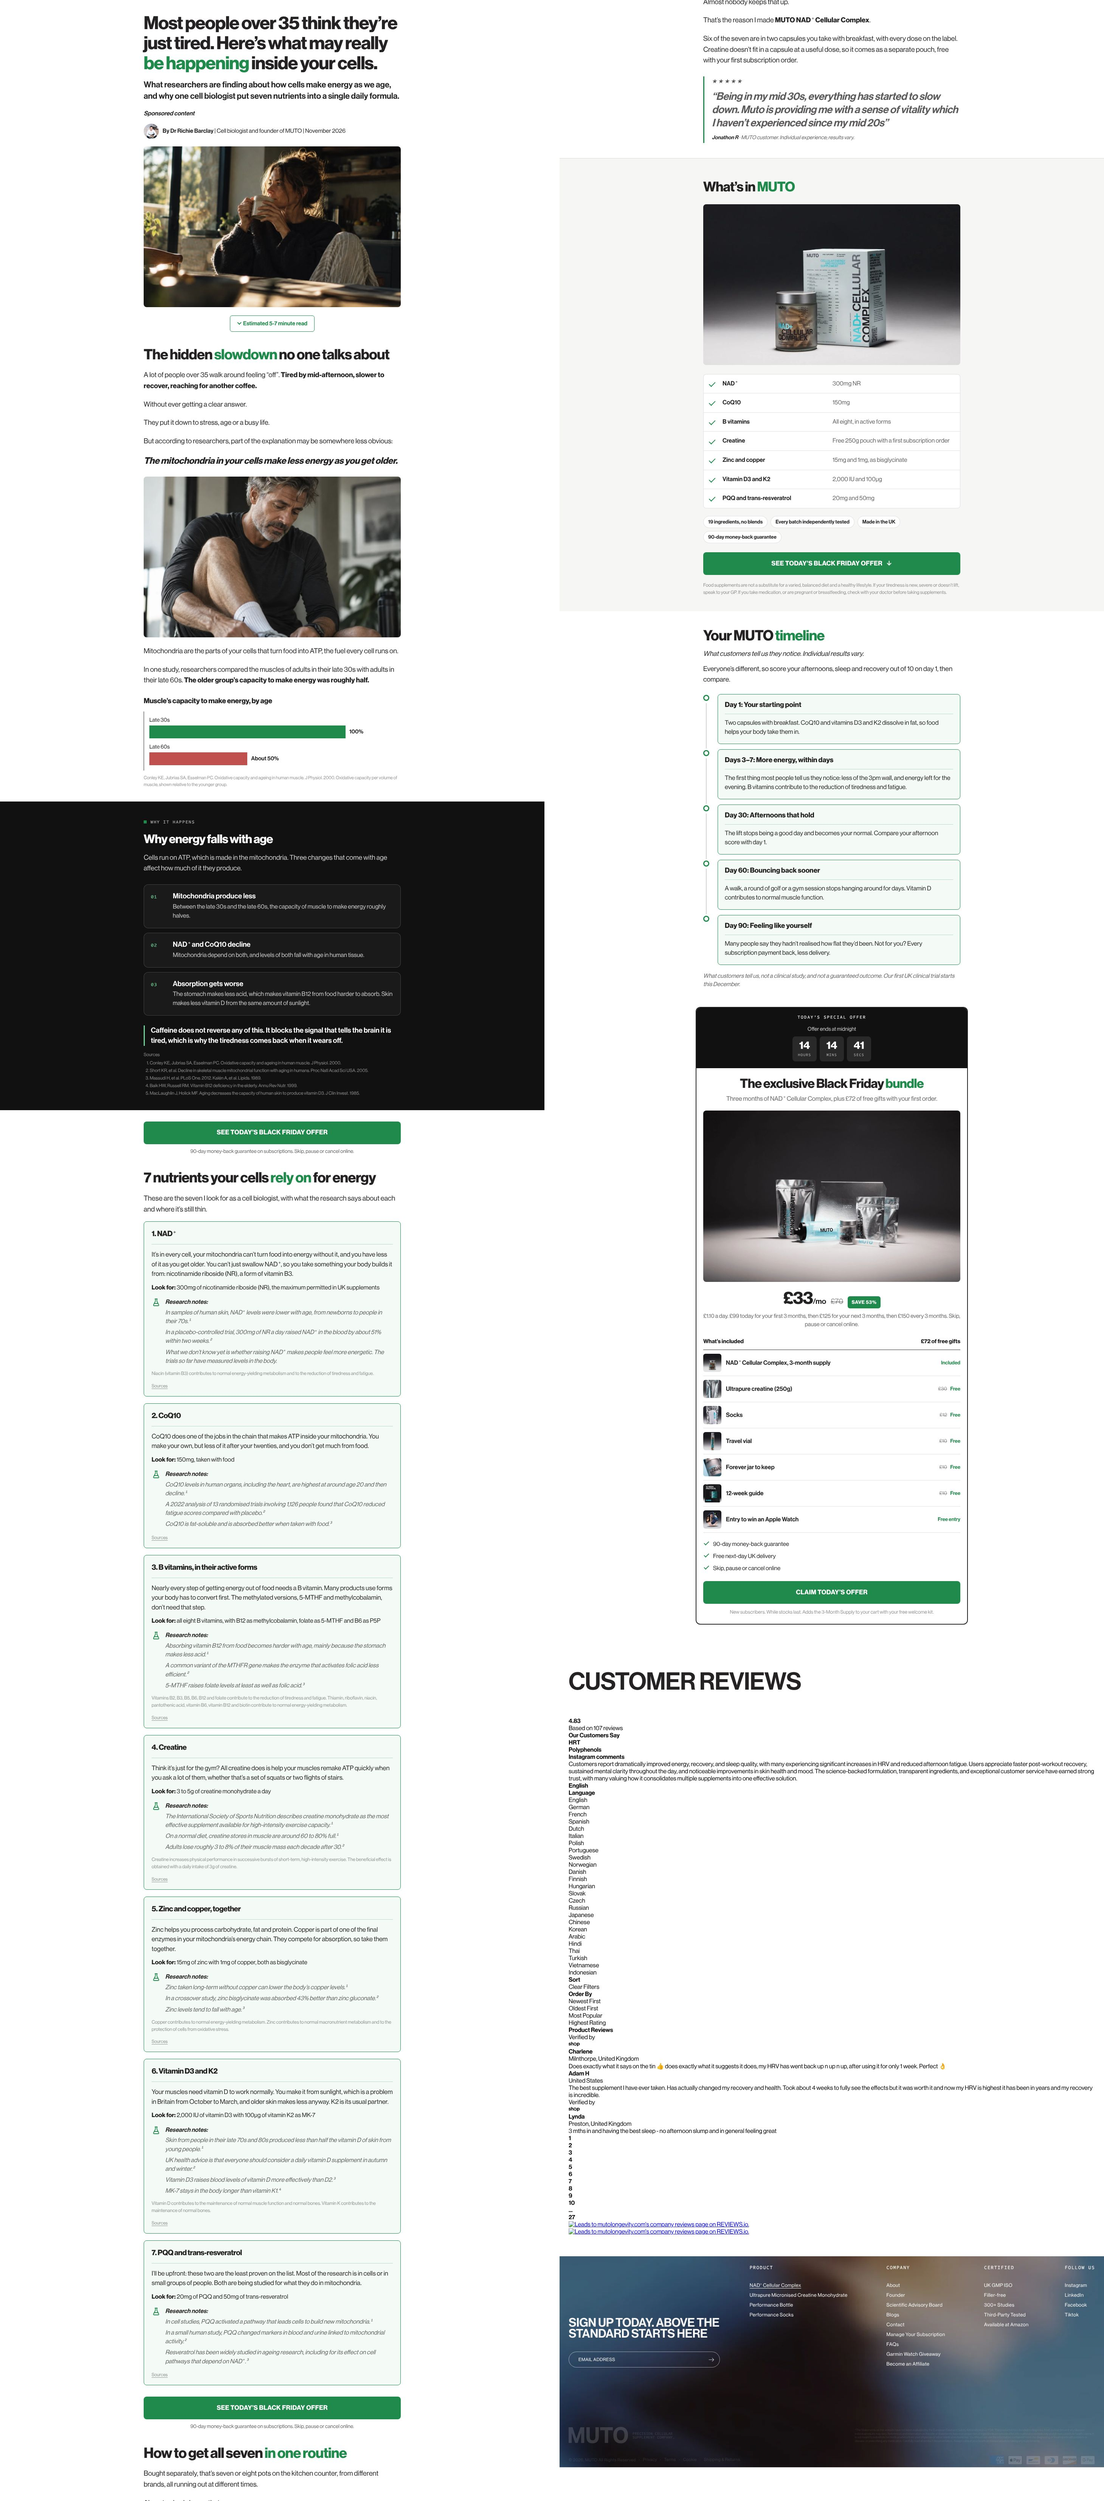
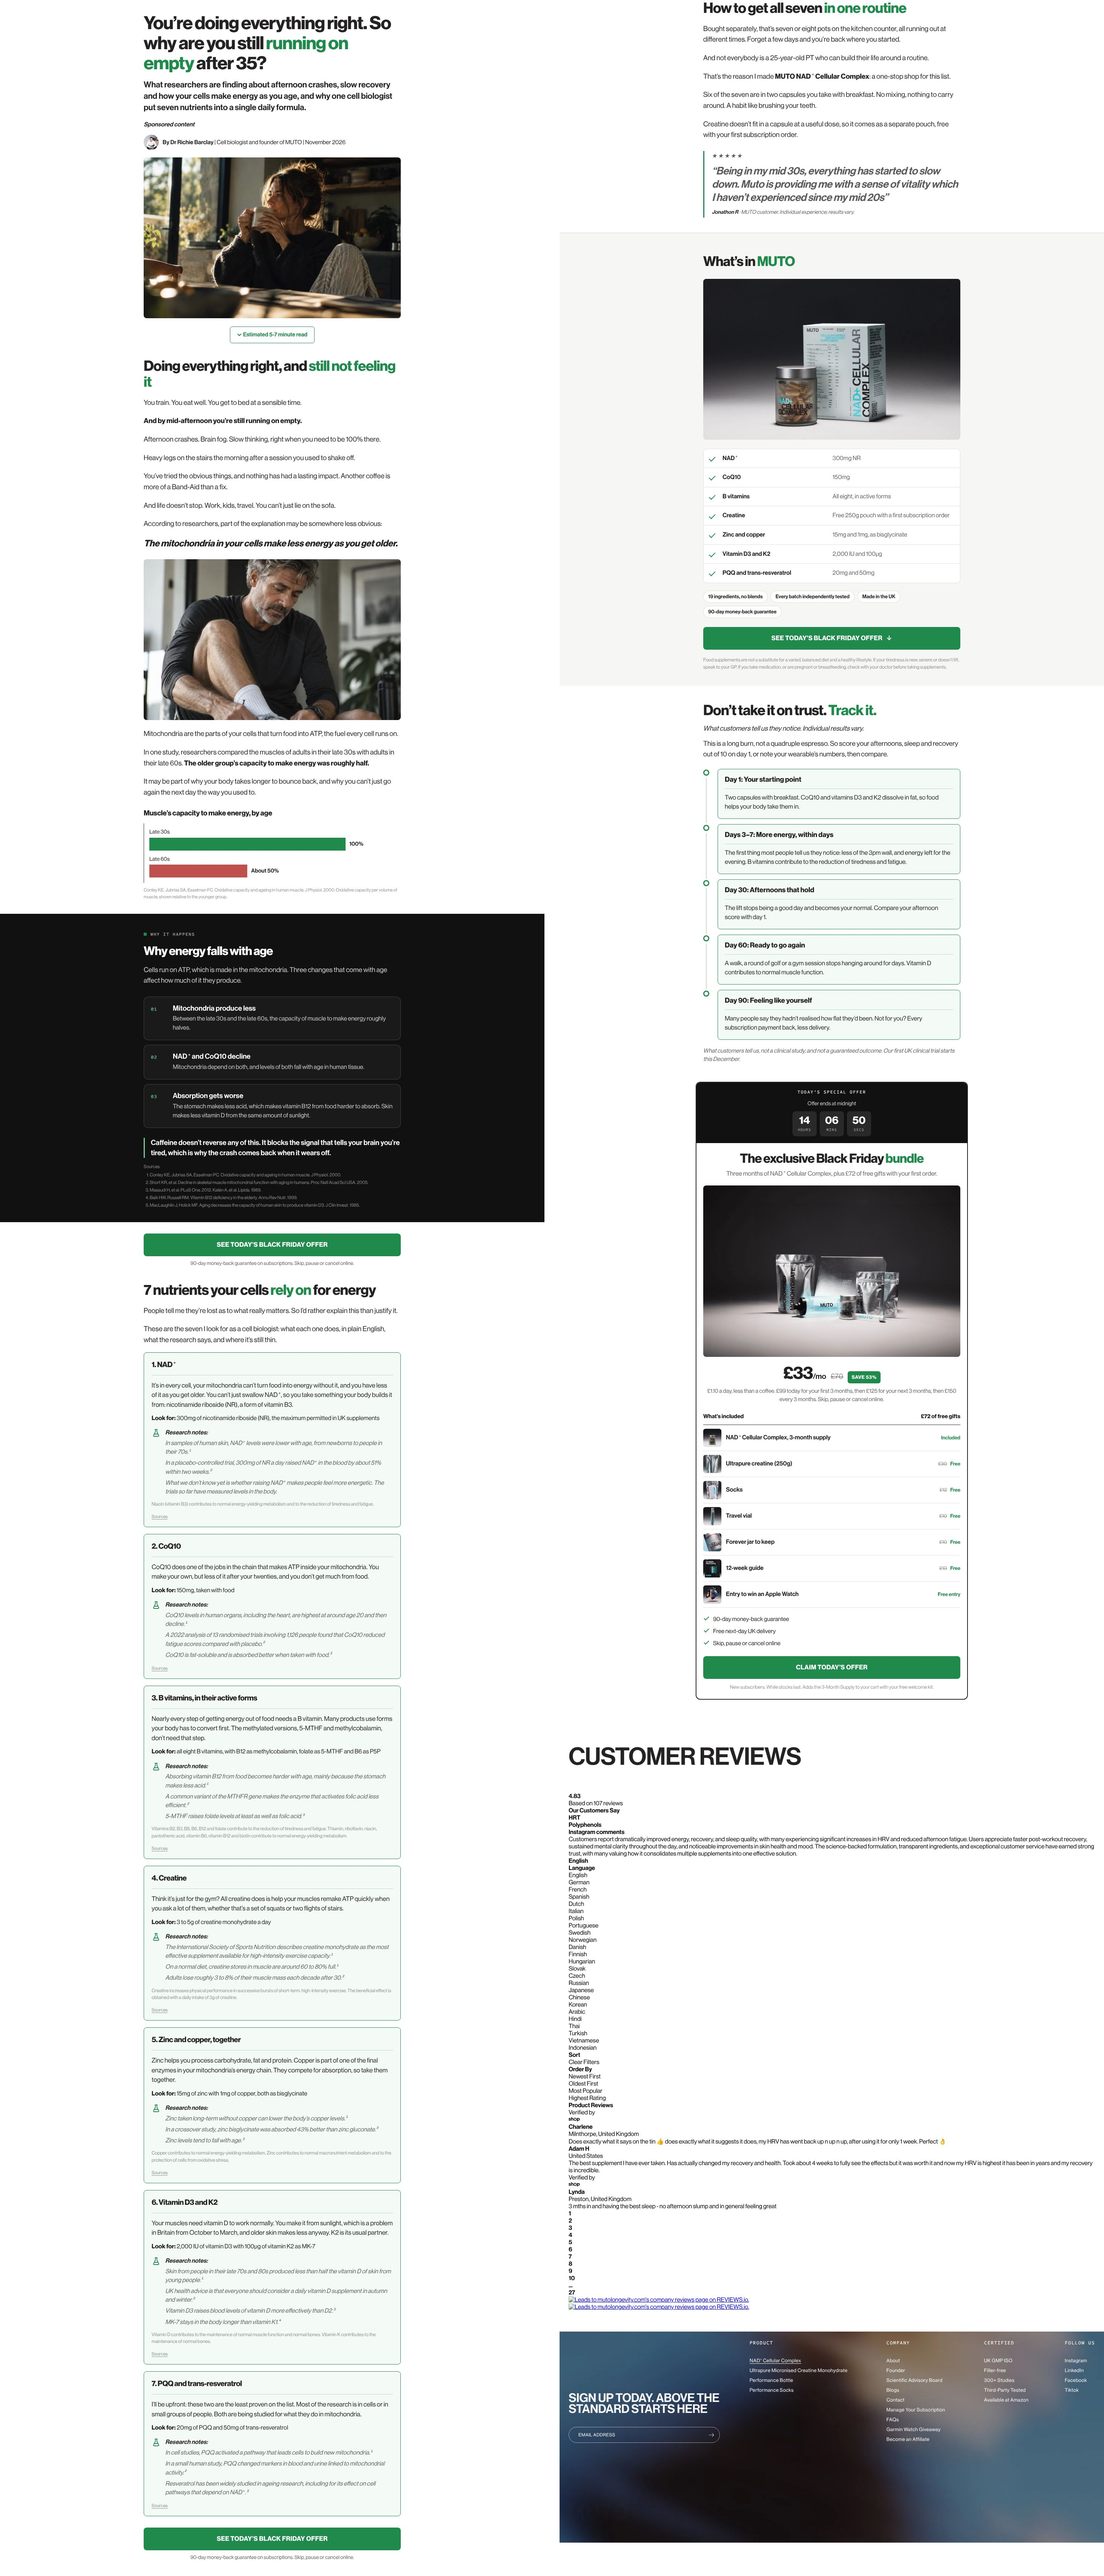
Energy after 35 advertorial: use customers' own language from the jobs-to-be-done research
Headline and opening rewritten around 'doing everything right and still not
feeling it', with their phrases woven in unattributed (running on empty,
afternoon crashes, brain fog, go again, one-stop shop, track it).

Claude-Session: https://claude.ai/code/session_01VYMABnjUKdR5wLBt4N8Yyd

diff --git a/shopify/lp-energy-35/build.py b/shopify/lp-energy-35/build.py
@@ -53,9 +53,9 @@ FOUNDER = CDN + "about-founder.jpg?v=1790751995"
 header = {
     "article": True, "news": False, "direct": True,
     "kicker": "",
-    "headline": "Most people over 35 think they’re just tired. Here’s what may really <em>be happening</em> inside your cells.",
-    "standfirst": "What researchers are finding about how cells make energy as we age, and why one cell "
-                  "biologist put seven nutrients into a single daily formula.",
+    "headline": "You’re doing everything right. So why are you still <em>running on empty</em> after 35?",
+    "standfirst": "What researchers are finding about afternoon crashes, slow recovery and how your cells make "
+                  "energy as you age, and why one cell biologist put seven nutrients into a single daily formula.",
     "sponsored": "Sponsored content",
     "author_name": "By Dr Richie Barclay",
     "author_role": "Cell biologist and founder of MUTO | November 2026",
@@ -82,12 +82,15 @@ def quote(words, name="", note="", stars=False):
 
 
 opening = text(
-    "<p>A lot of people over 35 walk around feeling “off”. <strong>Tired by mid-afternoon, slower to recover, "
-    "reaching for another coffee.</strong></p>"
-    "<p>Without ever getting a clear answer.</p>"
-    "<p>They put it down to stress, age or a busy life.</p>"
-    "<p>But according to researchers, part of the explanation may be somewhere less obvious:</p>",
-    heading="The hidden <em>slowdown</em> no one talks about",
+    "<p>You train. You eat well. You get to bed at a sensible time.</p>"
+    "<p><strong>And by mid-afternoon you’re still running on empty.</strong></p>"
+    "<p>Afternoon crashes. Brain fog. Slow thinking, right when you need to be 100% there.</p>"
+    "<p>Heavy legs on the stairs the morning after a session you used to shake off.</p>"
+    "<p>You’ve tried the obvious things, and nothing has had a lasting impact. Another coffee is more of a "
+    "Band-Aid than a fix.</p>"
+    "<p>And life doesn’t stop. Work, kids, travel. You can’t just lie on the sofa.</p>"
+    "<p>According to researchers, part of the explanation may be somewhere less obvious:</p>",
+    heading="Doing everything right, and <em>still not feeling it</em>",
     key="The mitochondria in your cells make less energy as you get older.")
 
 photo = {"type": "image", "settings": {
@@ -97,7 +100,9 @@ photo = {"type": "image", "settings": {
 mito = text(
     "<p>Mitochondria are the parts of your cells that turn food into ATP, the fuel every cell runs on.</p>"
     "<p>In one study, researchers compared the muscles of adults in their late 30s with adults in their late "
-    "60s. <strong>The older group’s capacity to make energy was roughly half.</strong></p>")
+    "60s. <strong>The older group’s capacity to make energy was roughly half.</strong></p>"
+    "<p>It may be part of why your body takes longer to bounce back, and why you can’t just go again the "
+    "next day the way you used to.</p>")
 
 chart = {"type": "chart", "settings": {
     "title": "Muscle’s capacity to make energy, by age",
@@ -106,8 +111,9 @@ chart = {"type": "chart", "settings": {
               "Oxidative capacity per volume of muscle, shown relative to the younger group."}}
 
 seven = text(
-    "<p>These are the seven I look for as a cell biologist, with what the research says about each and where "
-    "it’s still thin.</p>",
+    "<p>People tell me they’re lost as to what really matters. So I’d rather explain this than justify it.</p>"
+    "<p>These are the seven I look for as a cell biologist: what each one does, in plain English, what the "
+    "research says, and where it’s still thin.</p>",
     heading="7 nutrients your cells <em>rely on</em> for energy")
 
 # ------------------------------------------------------------------ the seven
@@ -153,8 +159,8 @@ dark = {"type": "dark", "settings": {
     "step_3_title": "Absorption gets worse",
     "step_3_text": "The stomach makes less acid, which makes vitamin B12 from food harder to absorb. "
                    "Skin makes less vitamin D from the same amount of sunlight.",
-    "end": "Caffeine does not reverse any of this. It blocks the signal that tells the brain it is tired, "
-           "which is why the tiredness comes back when it wears off.",
+    "end": "Caffeine doesn’t reverse any of this. It blocks the signal that tells your brain you’re tired, "
+           "which is why the crash comes back when it wears off.",
     "refs": lines(
         "Conley KE, Jubrias SA, Esselman PC. Oxidative capacity and ageing in human muscle. J Physiol. 2000.",
         "Short KR, et al. Decline in skeletal muscle mitochondrial function with aging in humans. Proc Natl Acad Sci USA. 2005.",
@@ -246,13 +252,14 @@ pqq = need(
      "Baur JA, Sinclair DA. Therapeutic potential of resveratrol: the in vivo evidence. Nat Rev Drug Discov. 2006."])
 
 reveal = text(
-    "<p>Bought separately, that’s seven or eight pots on the kitchen counter, from different brands, all "
-    "running out at different times.</p>"
-    "<p>Almost nobody keeps that up.</p>"
-    "<p>That’s the reason I made <strong>MUTO NAD+ Cellular Complex</strong>.</p>"
-    "<p>Six of the seven are in two capsules you take with breakfast, with every dose on the label. Creatine "
-    "doesn’t fit in a capsule at a useful dose, so it comes as a separate pouch, free with your first "
-    "subscription order.</p>",
+    "<p>Bought separately, that’s seven or eight pots on the kitchen counter, all running out at different "
+    "times. Forget a few days and you’re back where you started.</p>"
+    "<p>And not everybody is a 25-year-old PT who can build their life around a routine.</p>"
+    "<p>That’s the reason I made <strong>MUTO NAD+ Cellular Complex</strong>: a one-stop shop for this list.</p>"
+    "<p>Six of the seven are in two capsules you take with breakfast. No mixing, nothing to carry around. "
+    "A habit like brushing your teeth.</p>"
+    "<p>Creatine doesn’t fit in a capsule at a useful dose, so it comes as a separate pouch, free with your "
+    "first subscription order.</p>",
     heading="How to get all seven <em>in one routine</em>")
 
 customer = quote(
@@ -283,14 +290,14 @@ answer = {"type": "answer", "settings": {
             "or are pregnant or breastfeeding, check with your doctor before taking supplements."}}
 
 timeline = {"type": "timeline", "settings": {
-    "heading": "Your MUTO <em>timeline</em>",
+    "heading": "Don’t take it on trust. <em>Track it.</em>",
     "sub": "What customers tell us they notice. Individual results vary.",
-    "intro": "Everyone’s different, so score your afternoons, sleep and recovery out of 10 on day 1, then compare.",
+    "intro": "This is a long burn, not a quadruple espresso. So score your afternoons, sleep and recovery out of 10 on day 1, or note your wearable’s numbers, then compare.",
     "items": lines(
         "Day 1: Your starting point | Two capsules with breakfast. CoQ10 and vitamins D3 and K2 dissolve in fat, so food helps your body take them in.",
         "Days 3–7: More energy, within days | The first thing most people tell us they notice: less of the 3pm wall, and energy left for the evening. B vitamins contribute to the reduction of tiredness and fatigue.",
         "Day 30: Afternoons that hold | The lift stops being a good day and becomes your normal. Compare your afternoon score with day 1.",
-        "Day 60: Bouncing back sooner | A walk, a round of golf or a gym session stops hanging around for days. Vitamin D contributes to normal muscle function.",
+        "Day 60: Ready to go again | A walk, a round of golf or a gym session stops hanging around for days. Vitamin D contributes to normal muscle function.",
         "Day 90: Feeling like yourself | Many people say they hadn’t realised how flat they’d been. Not for you? Every subscription payment back, less delivery."),
     "foot": "What customers tell us, not a clinical study, and not a guaranteed outcome. Our first UK clinical trial starts this December."}}
 
@@ -303,7 +310,7 @@ offer = {"type": "offer", "settings": {
     "image_url": CDN + "muto-lp-kit-hero.jpg?v=1791969959",
     "image_alt": "The MUTO welcome kit: NAD+ Cellular Complex jar and refill pouches, Ultrapure Creatine and the presentation box",
     "price": "£33", "price_note": "/mo", "was": "£70", "badge": "Save 53%",
-    "bill": "£1.10 a day. £99 today for your first 3 months, then £125 for your next 3 months, "
+    "bill": "£1.10 a day, less than a coffee. £99 today for your first 3 months, then £125 for your next 3 months, "
             "then £150 every 3 months. Skip, pause or cancel online.",
     "list_label": "What’s included", "list_note": "£72 of free gifts",
     "items": lines(
